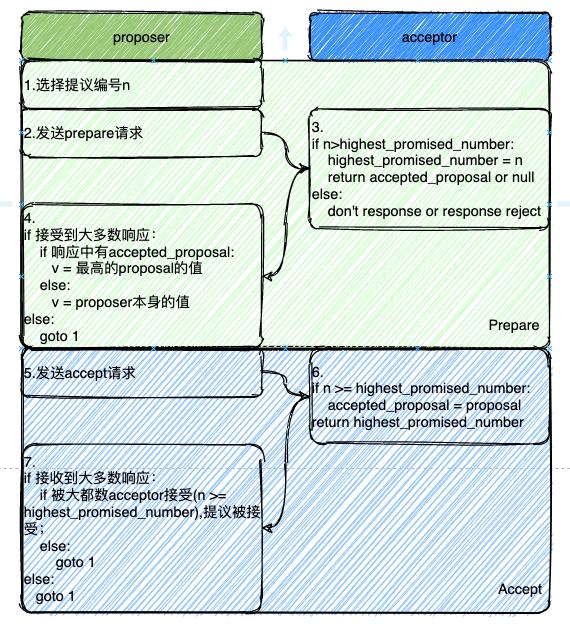
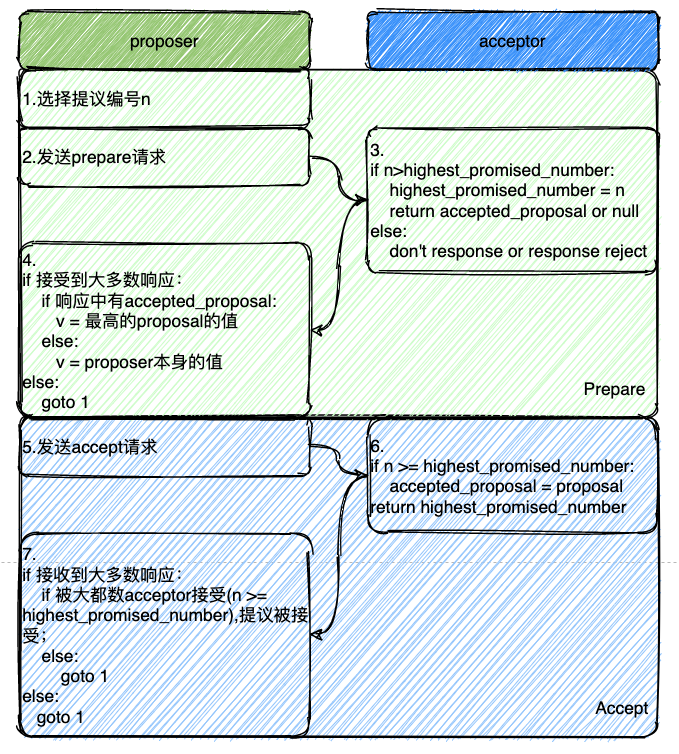
consensus_protocol: reedit images

diff --git a/consensus_protocol/detail_of_paxos_and_multi_paxos.html b/consensus_protocol/detail_of_paxos_and_multi_paxos.html
@@ -27,8 +27,8 @@
 <p>There is only one consensus protocol, and that's Paxos – all other approaches are just broken versions of Paxos.</p>
 </blockquote>
 <h2 id="1.简介"><a href="#1.%E7%AE%80%E4%BB%8B">1.简介</a></h2>
-<p>本文是分布式系统原理和实践的第一篇，笔者在学习的过程参考了原论文以及很多网络文章，感谢那些作者的分享和记录。本文会从Paxos的引入开始，然后对Paxos的流程分解和总结，最后对Multi-paxso的特性进行分析，以下所有讨论并不会涉及系统实现相关的部分，如果读者对这部分已经深入了解，可以自行跳过；
-我们知道，在一个系统中，为了避免单节点故障引起数据丢失或服务不可用，通常会把数据复制多份进行保存，并将其存储在不同的数据节点上，以此增强系统的可用性和可靠性，降低数据丢失的可能。但这种方式同时也引入了一个新的问题，就是如何保证处于不同节点上的副本数据是一致的，数据副本之间没有任何差异。分布式共识算法就是为解决这个问题而生，而最让人熟知的当属Paxos协议，Google Chubby的作者就曾说，世界上就只有一种一致性协议，那就是Paxos，其他都是Paxos的残缺版本；</p>
+<p>本文是分布式系统原理和实践的第一篇，笔者在学习的过程参考了原论文以及很多网络文章，感谢那些作者的分享和记录。本文会从Paxos的引入开始，然后对Paxos的流程分解和总结，最后对Multi-paxso的特性进行分析，以下所有讨论并不会涉及系统实现相关的部分，如果读者对这部分已经深入了解，可以自行跳过；</p>
+<p>我们知道，在一个系统中，为了避免单节点故障引起数据丢失或服务不可用，通常会把数据复制多份进行保存，并将其存储在不同的数据节点上，以此增强系统的可用性和可靠性，降低数据丢失的可能。但这种方式同时也引入了一个新的问题，就是如何保证处于不同节点上的副本数据是一致的，数据副本之间没有任何差异。分布式共识算法就是为解决这个问题而生，而最让人熟知的当属Paxos协议，Google Chubby的作者就曾说，世界上就只有一种一致性协议，那就是Paxos，其他都是Paxos的残缺版本；</p>
 <h2 id="2.paxos的引入"><a href="#2.paxos%E7%9A%84%E5%BC%95%E5%85%A5">2.Paxos的引入</a></h2>
 <h4 id="2.1-简介"><a href="#2.1-%E7%AE%80%E4%BB%8B">2.1 简介</a></h4>
 <p>如果要理解Paxos，那必须要知道Paxos解决了什么问题，当然在是解决一致性问题，这里想说的是Paxos如何去解决一致性问题，笔者查阅了论文和网上很多相关的文章，认为最易于记忆的总结是：</p>
@@ -44,22 +44,39 @@
 </ul>
 <p>在Paxos中，包括了三类角色，分别是Proposer、Accepter和Learner，一个系统中他们都存在一个或则多个。需要被确定的值由Proposer提出，值被提出后发送给接收者Acceptor进行确定，确定成功后由学习者对值进行保存和应用。</p>
 <h4 id="2.3-确定一个值(单个accptor)"><a href="#2.3-%E7%A1%AE%E5%AE%9A%E4%B8%80%E4%B8%AA%E5%80%BC(%E5%8D%95%E4%B8%AAaccptor)">2.3 确定一个值(单个Accptor)</a></h4>
+<<<<<<< Updated upstream:consensus_protocol/detail_of_paxos_and_multi_paxos.html
 <figure tabindex="1"><a href="../images/consensus_protocol/p1.png"><img src="../images/consensus_protocol/p1.png" alt=""></a><figcaption>p1</figcaption></figure>
 <p>在只有单个Acceptor的系统中，对于多个Propser提出的多个值，Acceptor只要选择第一个到达的就能将值确定下来。相应的问题是单点Acceptor失效的情况下会使得系统不可用，所以需要引入多个Acceptor。</p>
 <h4 id="2.4-确定一个值(多个accptor)"><a href="#2.4-%E7%A1%AE%E5%AE%9A%E4%B8%80%E4%B8%AA%E5%80%BC(%E5%A4%9A%E4%B8%AAaccptor)">2.4 确定一个值(多个Accptor)</a></h4>
 <figure tabindex="2"><a href="../images/consensus_protocol/p2.png"><img src="../images/consensus_protocol/p2.png" alt=""></a><figcaption>p2</figcaption></figure>
+=======
+<figure tabindex="1"><a href="../images/consensus_protocol/p1.png"><img src="../images/consensus_protocol/p1.png" alt=""></a><figcaption>图1</figcaption></figure>
+<p>在只有单个Acceptor的系统中，对于多个Propser提出的多个值，Acceptor只要选择第一个到达的就能将值确定下来。相应的问题是单点Acceptor失效的情况下会使得系统不可用，所以需要引入多个Acceptor。</p>
+<h4 id="2.4-确定一个值(多个accptor)"><a href="#2.4-%E7%A1%AE%E5%AE%9A%E4%B8%80%E4%B8%AA%E5%80%BC(%E5%A4%9A%E4%B8%AAaccptor)">2.4 确定一个值(多个Accptor)</a></h4>
+<figure tabindex="2"><a href="../images/consensus_protocol/p2.png"><img src="../images/consensus_protocol/p2.png" alt=""></a><figcaption>图2</figcaption></figure>
+>>>>>>> Stashed changes:public/consensus_protocol/detail_of_paxos_and_multi_paxos.html
 <p>在具有多个Acceptor的系统中，Proposer可以将提出的值发送给多个Acceptor，只要被大多数（一半以上）Acceptor接受了，那么值就被确定了。为什么是大多数？任何两个由大多数Acceptor组成的集合必然存在交集，即公共的Acceptor，<strong>只要保证Acceptor只能接受(accept)一个值</strong>，那任何两个大多数集合确定的值就是一样的，如果不一样，则集合交集中至少存在一个Acceptor接受了两个值，和条件违背，所以只要<strong>大多数</strong>Acceptor接受了一个值，那值就确定了，并且系统能供容忍少于大多数的Acceptor出现故障。综上，得出的Paxos实现一致性的原始条件是：</p>
 <blockquote>
 <p>Acceptor只能接受一个值</p>
 </blockquote>
+<<<<<<< Updated upstream:consensus_protocol/detail_of_paxos_and_multi_paxos.html
 <figure tabindex="3"><a href="../images/consensus_protocol/p3.png"><img src="../images/consensus_protocol/p3.png" alt=""></a><figcaption>p3</figcaption></figure>
 <p>如果一个Acceptor能够接受多个值，那如上图所示，提出的两个值都被大多数的Acceptor接受了，那就确定出了两个值而不是一个值，与条件违背；</p>
 <figure tabindex="4"><a href="../images/consensus_protocol/p4.png"><img src="../images/consensus_protocol/p4.png" alt=""></a><figcaption>p4</figcaption></figure>
+=======
+<figure tabindex="3"><a href="../images/consensus_protocol/p3.png"><img src="../images/consensus_protocol/p3.png" alt=""></a><figcaption>图3</figcaption></figure>
+<p>如果一个Acceptor能够接受多个值，那如上图所示，提出的两个值都被大多数的Acceptor接受了，那就确定出了两个值而不是一个值，与条件违背；</p>
+<figure tabindex="4"><a href="../images/consensus_protocol/p4.png"><img src="../images/consensus_protocol/p4.png" alt=""></a><figcaption>图4</figcaption></figure>
+>>>>>>> Stashed changes:public/consensus_protocol/detail_of_paxos_and_multi_paxos.html
 <p>如果一个Acceptor只能接受一个值，那就能保证在一个值被大多数Acceptor接受后就不会出现另一个值再被接受。</p>
 <blockquote>
 <p>P1.Acceptor必须接受收到的第一个值</p>
 </blockquote>
+<<<<<<< Updated upstream:consensus_protocol/detail_of_paxos_and_multi_paxos.html
 <figure tabindex="5"><a href="../images/consensus_protocol/p5.png"><img src="../images/consensus_protocol/p5.png" alt=""></a><figcaption>p5</figcaption></figure>
+=======
+<figure tabindex="5"><a href="../images/consensus_protocol/p5.png"><img src="../images/consensus_protocol/p5.png" alt=""></a><figcaption>图5</figcaption></figure>
+>>>>>>> Stashed changes:public/consensus_protocol/detail_of_paxos_and_multi_paxos.html
 <p>如果一个Acceptor不接受它收到的第一个值，那值的确定就无从谈起。这个条件的引入产生了一个问题，如上图，一个系统中可能会存在多个Properer提出值，Acceptor接受第一个值后无法形成大多数，造成值无法确定，所以Acceptor除了接受第一个值之外，还需要能够接受后续的值，直到值被大多数Acceptor接受后确定下来为止。
 为了使Acceptor能够对值的多次接受进行标识，从而引入一个编号，编号和值合并称为提议，将编号称为提议号，需要被确定的值称为提议值，至此，提议就包含了提议号和提议值。如果一个提议被确定，那该提议包含的值就被确定了。提议号的生成由系统自行实现，但需要不同的提议具有不同的提议号，并按提出的先后进行递增，即提议号小的提议先被提出，提议号大的后被提出。由于Acceptor能够接受多个提议并且不受数量的限制，一旦一个提议被确定后，为了保证只有一个值被确定，需要对之后的提议进行约束。</p>
 <blockquote>
@@ -109,23 +126,29 @@
 <li>接受过的具有最高提议号的提议</li>
 </ul>
 <h4 id="2.5-paxos总结"><a href="#2.5-paxos%E6%80%BB%E7%BB%93">2.5 Paxos总结</a></h4>
+<<<<<<< Updated upstream:consensus_protocol/detail_of_paxos_and_multi_paxos.html
 <figure tabindex="6"><a href="../images/consensus_protocol/p6.png"><img src="../images/consensus_protocol/p6.png" alt=""></a><figcaption>p6</figcaption></figure>
+=======
+<figure tabindex="6"><a href="../images/consensus_protocol/p6.png"><img src="../images/consensus_protocol/p6.png" alt=""></a><figcaption>图6</figcaption></figure>
+>>>>>>> Stashed changes:public/consensus_protocol/detail_of_paxos_and_multi_paxos.html
 <p>如上图所示，Paxos主要分为两个阶段：</p>
 <ul>
-<li>
-<p>阶段一：
-(a)Properser选择一个提议号n，并给大多数的Acceptor发送prepare请求；
-(b)Acceptor接收到prepare的请求后，如果提议号n大于之前回复过的最高提议号highest_promised_number，则重置最高提议号，并将接收过的提议返回给Proposer，承诺不再接受小于等于highest_promised_number的prepare请求；如果提议号n小于hightest_promised_number，则不响应请求或告知Proposer决绝接受的消息；</p>
-</li>
-<li>
-<p>阶段二：
-(a)如果Proposer收到了大部分Acceptor的prepare接受响应，则查看响应中是否存在接受的提议，如果存在，则将提议值设置为最高提议编号对应的值，如果不存在，则使用Propose自身的值，确定提议值后给大多数的Acceptor发送accept请求；
-(b)如果Acceptor接收到了提议号为n的提议，如果没有响应过更高提议的prepare请求，即n&gt;=highest_promised_number，就接受该提议，并重置accepted_proposal。否则不响应或返回拒绝信息给Proposer；</p>
-</li>
+<li>阶段一：</li>
 </ul>
+<p>(a)Properser选择一个提议号n，并给大多数的Acceptor发送prepare请求；</p>
+<p>(b)Acceptor接收到prepare的请求后，如果提议号n大于之前回复过的最高提议号highest_promised_number，则重置最高提议号，并将接收过的提议返回给Proposer，承诺不再接受小于等于highest_promised_number的prepare请求；如果提议号n小于hightest_promised_number，则不响应请求或告知Proposer决绝接受的消息；</p>
+<ul>
+<li>阶段二：</li>
+</ul>
+<p>(a)如果Proposer收到了大部分Acceptor的prepare接受响应，则查看响应中是否存在接受的提议，如果存在，则将提议值设置为最高提议编号对应的值，如果不存在，则使用Propose自身的值，确定提议值后给大多数的Acceptor发送accept请求；</p>
+<p>(b)如果Acceptor接收到了提议号为n的提议，如果没有响应过更高提议的prepare请求，即n&gt;=highest_promised_number，就接受该提议，并重置accepted_proposal。否则不响应或返回拒绝信息给Proposer；</p>
 <h4 id="2.6-活锁"><a href="#2.6-%E6%B4%BB%E9%94%81">2.6 活锁</a></h4>
 <p>在上一小节的总结中，可以看到Paxos主要分成两个阶段来完成，Acceptor通过提议编号的大小确定是否接受提议，可能会存在一种场景，如下图所示：</p>
+<<<<<<< Updated upstream:consensus_protocol/detail_of_paxos_and_multi_paxos.html
 <figure tabindex="7"><a href="../images/consensus_protocol/p7.png"><img src="../images/consensus_protocol/p7.png" alt=""></a><figcaption>p7</figcaption></figure>
+=======
+<figure tabindex="7"><a href="../images/consensus_protocol/p7.png"><img src="../images/consensus_protocol/p7.png" alt=""></a><figcaption>图7</figcaption></figure>
+>>>>>>> Stashed changes:public/consensus_protocol/detail_of_paxos_and_multi_paxos.html
 <ol>
 <li>Proposer.1收到客户端的请求后发送编号为1的提议，preapare被1，2，3三个Acceptor接收；</li>
 <li>同时Proposer.3收到客户端的请求后发送编号为2的提议，也被1，2，3三个Acceptor接收；</li>
@@ -134,12 +157,21 @@
 <li>不断的重复以上的步骤，会导致系统中不能确定被接受的值；</li>
 </ol>
 <p>上诉的这种现象称为“活锁”；解决的办法可以在Proposer中选出一个leader，由leader进行所有提议的提交，如下图所示:</p>
+<<<<<<< Updated upstream:consensus_protocol/detail_of_paxos_and_multi_paxos.html
 <figure tabindex="8"><a href="../images/consensus_protocol/p8.png"><img src="../images/consensus_protocol/p8.png" alt=""></a><figcaption>p8</figcaption></figure>
 <h2 id="3.multi-paxos"><a href="#3.multi-paxos">3.Multi-Paxos</a></h2>
 <p>通过以上的过程，Paxos可以确定出一个唯一的值，而往往在一个系统中我们需要不断的确定值，最简单的方式可以通过不断的运行Paxos来确定多个值，这个过程中，我们可以称运行一次Paxos为一个实例，一个实例能够确定一个值，如下图：</p>
 <figure tabindex="9"><a href="../images/consensus_protocol/p9.png"><img src="../images/consensus_protocol/p9.png" alt=""></a><figcaption>p9</figcaption></figure>
 <p>每个实例都需要运行Paxos的两个阶段，如下图是一个节点允许多个节点同时提交的运行情况：</p>
 <figure tabindex="10"><a href="../images/consensus_protocol/p10.png"><img src="../images/consensus_protocol/p10.png" alt=""></a><figcaption>p10</figcaption></figure>
+=======
+<figure tabindex="8"><a href="../images/consensus_protocol/p8.png"><img src="../images/consensus_protocol/p8.png" alt=""></a><figcaption>图8</figcaption></figure>
+<h2 id="3.multi-paxos"><a href="#3.multi-paxos">3.Multi-Paxos</a></h2>
+<p>通过以上的过程，Paxos可以确定出一个唯一的值，而往往在一个系统中我们需要不断的确定值，最简单的方式可以通过不断的运行Paxos来确定多个值，这个过程中，我们可以称运行一次Paxos为一个实例，一个实例能够确定一个值，如下图：</p>
+<figure tabindex="9"><a href="../images/consensus_protocol/p9.png"><img src="../images/consensus_protocol/p9.png" alt=""></a><figcaption>图9</figcaption></figure>
+<p>每个实例都需要运行Paxos的两个阶段，如下图是一个节点允许多个节点同时提交的运行情况：</p>
+<figure tabindex="10"><a href="../images/consensus_protocol/p10.png"><img src="../images/consensus_protocol/p10.png" alt=""></a><figcaption>图10</figcaption></figure>
+>>>>>>> Stashed changes:public/consensus_protocol/detail_of_paxos_and_multi_paxos.html
 <blockquote>
 <p>n.m : 其中n代表节点，m代表提议号，例如1.1位节点1提出的编号为1的提议；</p>
 </blockquote>
@@ -148,11 +180,17 @@
 <li>实例2中，节点2提出了编号为1的提议，由于节点1已经接收了来自节点2编号为3的提议，所以不会accept编号为1的提议；实例4同理，接收了来自节点3的更高的提议号而导致1.2被拒绝；</li>
 </ul>
 <p>如果只有一个节点提出提议，则流程如下：</p>
+<<<<<<< Updated upstream:consensus_protocol/detail_of_paxos_and_multi_paxos.html
 <figure tabindex="11"><a href="../images/consensus_protocol/p11.png"><img src="../images/consensus_protocol/p11.png" alt=""></a><figcaption>p11</figcaption></figure>
 <p>由于只有一个节点提出提议，确认的流程就不会被打断，每次提议的编号都一致，只要对一个提议做出承诺后，之后的提议都不需要再承诺，从而省略Paxos的第一阶段，即将对提议编号的承诺扩展到多个实例：</p>
 <figure tabindex="12"><a href="../images/consensus_protocol/p12.png"><img src="../images/consensus_protocol/p12.png" alt=""></a><figcaption>p12</figcaption></figure>
+=======
+<figure tabindex="11"><a href="../images/consensus_protocol/p11.png"><img src="../images/consensus_protocol/p11.png" alt=""></a><figcaption>图11</figcaption></figure>
+<p>由于只有一个节点提出提议，确认的流程就不会被打断，每次提议的编号都一致，只要对一个提议做出承诺后，之后的提议都不需要再承诺，从而省略Paxos的第一阶段，即将对提议编号的承诺扩展到多个实例：</p>
+<figure tabindex="12"><a href="../images/consensus_protocol/p12.png"><img src="../images/consensus_protocol/p12.png" alt=""></a><figcaption>图12</figcaption></figure>
+>>>>>>> Stashed changes:public/consensus_protocol/detail_of_paxos_and_multi_paxos.html
 <p>由此可以看见，Multi-Paxos是系统的某种特殊场景下表现出来的并加之优化的特性，无需使用leader，在多个节点进行提交的情况下回衰减为朴素的Paxos，为了能够提供更好的性能，可以加强这一特性，可以将请求都通过解决活锁的leader来进行提交；</p>
-<h2 id="参考列表"><a href="#%E5%8F%82%E8%80%83%E5%88%97%E8%A1%A8">参考列表</a></h2>
+<h2 id="3.参考列表"><a href="#3.%E5%8F%82%E8%80%83%E5%88%97%E8%A1%A8">3.参考列表</a></h2>
 <ul>
 <li><a href="https://blog.yangx.site/2018/08/05/paxos/">分布式系统一致性及Paxos详解</a></li>
 <li><a href="https://zhuanlan.zhihu.com/p/31780743">Paxos算法详解</a></li>
